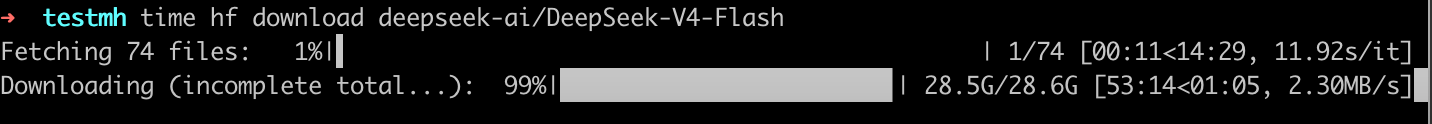
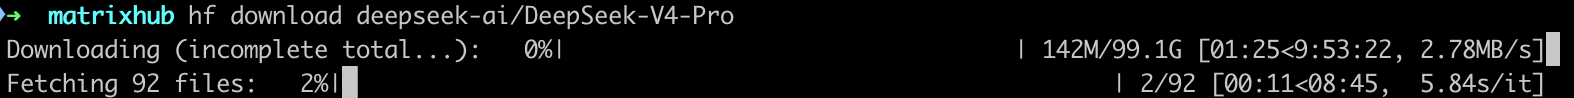
doc: change login image in blog

Changed region(s): [[0.0, 0.0, 1.0, 1.0], [0.0, 0.0612, 0.5531, 0.2755]]

diff --git a/website/blog/2026-04-27-deepseek-v4-distribution.md b/website/blog/2026-04-27-deepseek-v4-distribution.md
@@ -125,7 +125,7 @@ curl http://127.0.0.1:3001
 
 Change the password immediately.
 
-![](https://oss-liuchengtu.hudunsoft.com/userimg/58/58d44ab77e61593b9793b655b92b9f39.png)
+![login](./images/login.png)
 
 ### Step 3: Create a remote registry to proxy Hugging Face
 
@@ -143,10 +143,10 @@ How it works:
 Request -> MatrixHub -> Hugging Face -> Response
 ```
 
-![](https://oss-liuchengtu.hudunsoft.com/userimg/08/083c2bd16b57cdad8ba10ffe9fcaa302.png)
-![](https://oss-liuchengtu.hudunsoft.com/userimg/a2/a2c114cb542e536c6c80c4a48c1ae23b.png)
-![](https://oss-liuchengtu.hudunsoft.com/userimg/29/2991b71a6df3a1e47c3009d2b713ff5d.png)
-![](https://oss-liuchengtu.hudunsoft.com/userimg/0a/0a31ca035d8baf8808a802b5b4fddeb1.png)
+![](./images/registry1.PNG)
+![](./images/registry2.PNG)
+![](./images/registry3.PNG)
+![](./images/registry4.PNG)
 
 ### Step 4: Create a proxy project
 
@@ -161,10 +161,10 @@ When creating the project:
 - Select the `huggingface` remote registry
 - Specify the model organization: `deepseek-ai`
 
-![](https://oss-liuchengtu.hudunsoft.com/userimg/fb/fbc507c9cab0e4f52bbd9a539b815a7e.png)
-![](https://oss-liuchengtu.hudunsoft.com/userimg/1c/1cdcd97d9c91ffcec222f897bd828acb.png)
-![](https://oss-liuchengtu.hudunsoft.com/userimg/58/584a4c545d5ff3541d24397f638cb382.png)
-![](https://oss-liuchengtu.hudunsoft.com/userimg/28/28d5122a23f3da0b8ff97c5303c7761a.png)
+![](./images/project1.PNG)
+![](./images/project2.png)
+![](./images/project3.png)
+![](./images/project4.png)
 
 ### Step 5: Client integration
 
@@ -184,6 +184,12 @@ What this does:
 ```bash
 hf download deepseek-ai/DeepSeek-V4-Pro
 ```
+![](./images/download1.png)
+
+You can see 'DeepSeek-V4-Pro' model under 'deepseek-ai' Project in UI
+
+![](./images/download.png)
+
 
 ## Verify cache effectiveness
 